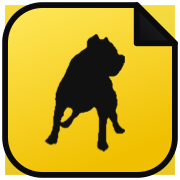
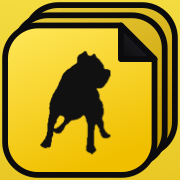
Make the mark a stack: pages behind the page
His ask: "design this in a way so that there is another page behind it,
like a scrollable yellow pages like how it existed in the back end."

Three sheets now, each offset up and to the RIGHT of the one in front.
That direction is the whole point rather than a preference — it is where
the front sheet's corner is turned, so the cut opens onto the page
behind it. Offset any other way and the stack shows its slivers on an
edge the fold does nothing with, and the two devices stay two devices.
This way they are one: the corner is turned back and there is visibly
something under it.

Only the top sheet is dog-eared. Three folded corners read as three
marks rather than one directory.

Everything is proportional to a SHEET rather than to the drawing now, so
the radius, the fold and Biggie's place on the front page all survive
the sheet being smaller than the whole mark. His measured numbers are
unchanged: 22.5% fold, dog 23.4% to 70.7% across and 17.2% to 86.4%
down.

The icon script is rebuilt and moved into tools/. It used to reproduce
the mark from constants it scraped out of the component with a regex,
which worked while those were four literals and broke silently the
moment they became expressions — a regex that matches nothing yields NaN
and still renders something. It now lifts the real mark out of the
running page and photographs it, so there is no second copy of the
geometry left to fall out of step. It also has to navigate to the app's
[…]

diff --git a/src/apps/dialer/PagesMark.tsx b/src/apps/dialer/PagesMark.tsx
@@ -1,115 +1,142 @@
 /**
- * The BEASTY PAGES mark: Biggie on a yellow tile with the corner turned down.
+ * The BEASTY PAGES mark: Biggie on a yellow sheet, with the directory behind him.
  *
- * Drawn rather than shipped as a picture, because the two things the operator
- * asked to have fixed are both geometry, and geometry baked into a PNG has to
- * be redrawn by hand at every size it is ever used at.
+ * Drawn rather than shipped as a picture, because everything the operator has
+ * asked to have changed here has been geometry, and geometry baked into a PNG
+ * has to be redrawn by hand at every size it is ever used at.
  *
- *   "Can you design it where the line around the tile goes completely around
- *    without that missing space. Also the page fold isn't as symmetrical to the
- *    corner if you can look closely and see."
+ *   "the line around the tile goes completely around without that missing space"
+ *   "the page fold isn't as symmetrical to the corner"
+ *   "design this in a way so that there is another page behind it like a
+ *    scrollable yellow pages like how it existed in the back end"
  *
- * Both are answered by construction below rather than by eye — see TILE and
- * FOLD.
+ * All three are answered by construction below rather than by eye. The last one
+ * is what turned this from a tile into a STACK, and it pays for itself: the cut
+ * corner now reveals the sheet behind rather than revealing nothing, so the
+ * fold and the stack stopped being two ideas and became one.
  *
  * Biggie has died; the dog on this screen is a memorial, not a mascot, which is
  * worth knowing before anyone edits that artwork.
  */
 
-/** Corner radius, in the 100x100 square the mark is drawn in. */
-const R = 22
+/**
+ * Three sheets, each SHEET across, each STEP up and to the right of the one in
+ * front of it — so the whole stack still fills the 100x100 the mark is drawn in.
+ *
+ * Up and to the RIGHT specifically, because that is where the front sheet's
+ * corner is turned. A stack offset any other way would show its slivers on an
+ * edge the fold does nothing with, and the two devices would just be two
+ * devices. This way the fold opens onto the page behind it.
+ */
+const SHEETS = 3
+const STEP = 6
+const SHEET = 100 - STEP * (SHEETS - 1)
+
+/** Corner radius, in proportion to a sheet rather than to the whole mark. */
+const R = SHEET * 0.22
 
 /**
  * How far the fold reaches from the corner along BOTH edges, which is the whole
  * of what "symmetrical to the corner" means here.
  *
  * The cut runs from A on the top edge to B on the right edge, each exactly F
- * from the corner, so A and B are mirror images across the corner's own
- * 45-degree diagonal. The fold is then symmetric BY CONSTRUCTION: one number
- * used twice, no eyeballed control point that can drift, and it holds at every
- * size the mark is ever drawn at.
+ * from the corner, so A and B are mirror images across that corner's own
+ * 45-degree diagonal. The fold is symmetric BY CONSTRUCTION — one number used
+ * twice, no eyeballed control point that can drift, true at every size.
  *
- * 22.5 is HIS size, measured off public/icons/beasty-pages-mark.png rather than
- * chosen — and measuring it is what found the thing he was pointing at. His
+ * 22.5% is HIS size, measured off public/icons/beasty-pages-mark.png rather
+ * than chosen, and measuring it is what found the thing he was pointing at: his
  * fold reaches 22.3% along the top edge and 22.7% down the right. Four parts in
- * a thousand, invisible until you look for it, and he looked for it. One number
- * used twice cannot do that.
+ * a thousand, invisible until you look for it, and he looked for it.
  */
-const F = 22.5
+const F = SHEET * 0.225
 
-/** A, where the cut leaves the top edge. */
-const AX = 100 - F
-/** B, where the cut meets the right edge. */
-const BY = F
+/** Where each sheet's top-left corner sits. Index 0 is the front one. */
+const originOf = (i: number) => ({ x: STEP * i, y: STEP * (SHEETS - 1 - i) })
 
-/*
-  ONE path for the whole tile, corner cut included — the fix for the missing
-  space in the outline.
+/**
+ * One sheet as a single closed path, corner cut included.
+ *
+ * ONE path is the fix for the missing space in the outline. The version he was
+ * looking at was a rounded rectangle with a triangle laid over its corner: two
+ * shapes, so the stroke ran round the rectangle and stopped dead where the
+ * triangle began, leaving the fold's own edge bare. Here the diagonal IS a
+ * segment of the outline, so a single stroke travels the entire silhouette and
+ * closes on itself. There is no seam left to leave open.
+ *
+ * `cut` is false for the sheets behind: only the top one is dog-eared. Three
+ * folded corners would read as three separate marks rather than one directory.
+ */
+function sheetPath(i: number, cut: boolean): string {
+  const { x, y } = originOf(i)
+  const r = x + SHEET
+  const b = y + SHEET
+  return [
+    `M ${x + R} ${y}`,
+    cut ? `H ${r - F}` : `H ${r - R}`,
+    cut ? `L ${r} ${y + F}` : `A ${R} ${R} 0 0 1 ${r} ${y + R}`,
+    `V ${b - R}`,
+    `A ${R} ${R} 0 0 1 ${r - R} ${b}`,
+    `H ${x + R}`,
+    `A ${R} ${R} 0 0 1 ${x} ${b - R}`,
+    `V ${y + R}`,
+    `A ${R} ${R} 0 0 1 ${x + R} ${y}`,
+    'Z',
+  ].join(' ')
+}
 
-  The version the operator was looking at was a rounded rectangle with a
-  triangle laid over its corner: two shapes, so the stroke ran round the
-  rectangle and stopped dead where the triangle started, leaving the fold's own
-  edge bare. That is the gap he spotted. Here the diagonal IS a segment of the
-  outline, so one stroke travels the entire silhouette and closes on itself.
-  There is no seam left to leave open.
-*/
-const TILE = [
-  `M ${R} 0`,
-  `H ${AX}`, //                        top edge, stopping at A
-  `L 100 ${BY}`, //                    the cut, A down to B
-  `V ${100 - R}`, //                   right edge
-  `A ${R} ${R} 0 0 1 ${100 - R} 100`,
-  `H ${R}`, //                         bottom edge
-  `A ${R} ${R} 0 0 1 0 ${100 - R}`,
-  `V ${R}`, //                         left edge
-  `A ${R} ${R} 0 0 1 ${R} 0`,
-  'Z',
-].join(' ')
-
-/*
-  The turned-down corner, lying inside the tile along the cut.
-
-  Its third point D is the corner reflected across the cut, which for a cut
-  meeting both edges at F comes out at exactly (100 - F, F). So D sits ON the
-  corner's diagonal with A and B equidistant either side of it, and the flap is
-  its own mirror image — the property he asked for, true for any F.
-*/
-const FOLD = `M ${AX} 0 L 100 ${BY} L ${AX} ${BY} Z`
+/**
+ * The turned-down corner of the front sheet, lying inside it along the cut.
+ *
+ * Its third point is the corner reflected across the cut, which for a cut
+ * meeting both edges at F lands exactly on that corner's diagonal — so the flap
+ * is its own mirror image, for any F.
+ */
+function foldPath(): string {
+  const { x, y } = originOf(0)
+  const r = x + SHEET
+  return `M ${r - F} ${y} L ${r} ${y + F} L ${r - F} ${y + F} Z`
+}
 
 /**
  * Biggie is 355x520, placed to match the operator's own mark rather than to my
- * taste — his file is in public/icons/beasty-pages-mark.png and these numbers
- * are measured off it.
+ * taste — his file is public/icons/beasty-pages-mark.png and these are measured
+ * off it: 23.4% to 70.7% across, 17.2% to 86.4% down. That height at Biggie's
+ * aspect gives 47.1 wide against the 47.3 measured off his art, which is the
+ * confirmation the numbers are read and not guessed.
  *
- * His dog occupies 23.4% to 70.7% across and 17.2% to 86.4% down. That is 69
- * tall, which at Biggie's aspect gives 47.1 wide against the 47.3 measured off
- * his art — the same artwork at the same scale, which is the confirmation the
- * measurement is right rather than a coincidence of two eyeballed numbers.
- *
- * NOT centred: he sits about three units left of it. That is deliberate in his
- * drawing and it works, because the turned corner takes visual weight out of
- * the top right and the dog leans back against it. Centring him by arithmetic
- * made the tile look like it was falling to the right.
+ * Proportions of a SHEET, not of the mark, so he keeps his place on the front
+ * page now that the page is smaller than the whole drawing.
  */
-const DOG_H = 69
+const DOG_H = SHEET * 0.69
 const DOG_W = (DOG_H * 355) / 520
-const DOG_X = 23.4
-const DOG_Y = 17.2
+const DOG_X = originOf(0).x + SHEET * 0.234
+const DOG_Y = originOf(0).y + SHEET * 0.172
 
 export function PagesMark({ className }: { className?: string }) {
+  /* Back to front, so each sheet laps over the one behind it. */
+  const behind = Array.from({ length: SHEETS - 1 }, (_, k) => SHEETS - 1 - k)
+
   return (
     /*
       Padded by 3 on every side so the stroke has somewhere to live. A stroke
       straddles its own path, so in a bare 0 0 100 100 box the outer half of it
-      falls outside the viewport: the four edges render at half the weight of
-      the diagonal, which reads as precisely the kind of unfinished being
-      complained about.
+      falls outside the viewport: the edges render at half the weight of the
+      diagonal, which reads as precisely the kind of unfinished being complained
+      about.
     */
     <svg className={className} viewBox="-3 -3 106 106" role="img" aria-label="BEASTY PAGES">
       <defs>
         <linearGradient id="pm-tile" x1="0" y1="0" x2="0.4" y2="1">
           <stop offset="0" stopColor="#FFE85C" />
           <stop offset="1" stopColor="#F0C000" />
+        </linearGradient>
+        {/* The sheets behind sit in the front one's shadow, and further back is
+            further down. Two stops rather than a flat fill so a deep stack does
+            not read as a flat band of colour. */}
+        <linearGradient id="pm-back" x1="0" y1="0" x2="0.4" y2="1">
+          <stop offset="0" stopColor="#E8CA3A" />
+          <stop offset="1" stopColor="#C79E00" />
         </linearGradient>
         {/* The underside of a turned page catches least light at the tip. */}
         <linearGradient id="pm-fold" x1="1" y1="0" x2="0" y2="1">
@@ -118,11 +145,22 @@ export function PagesMark({ className }: { className?: string }) {
         </linearGradient>
         {/* Keeps the dog off the fold and off the rounded corners. */}
         <clipPath id="pm-clip">
-          <path d={TILE} />
+          <path d={sheetPath(0, true)} />
         </clipPath>
       </defs>
 
-      <path d={TILE} fill="url(#pm-tile)" />
+      {behind.map((i) => (
+        <path
+          key={i}
+          d={sheetPath(i, false)}
+          fill="url(#pm-back)"
+          stroke="#0B0B0D"
+          strokeWidth="3.4"
+          strokeLinejoin="round"
+        />
+      ))}
+
+      <path d={sheetPath(0, true)} fill="url(#pm-tile)" />
 
       <image
         href="/biggie.webp"
@@ -134,29 +172,21 @@ export function PagesMark({ className }: { className?: string }) {
         preserveAspectRatio="xMidYMid meet"
       />
 
-      <path d={FOLD} fill="url(#pm-fold)" />
+      <path d={foldPath()} fill="url(#pm-fold)" />
 
       {/*
-        The outline goes on LAST and unfilled, so it sits over both the tile and
-        the dog and reads as one unbroken line the whole way round — including
-        along the cut, which is the part that was missing.
+        The outline goes on LAST and unfilled, so it sits over the sheet, the
+        dog and the flap and reads as one unbroken line the whole way round —
+        including along the cut, which is the part that was missing.
       */}
       <path
-        d={TILE}
+        d={sheetPath(0, true)}
         fill="none"
         stroke="#0B0B0D"
         strokeWidth="3.4"
         strokeLinejoin="round"
       />
-      {/* The fold's two straight edges, so the turned corner has an edge of its
-          own rather than floating as a dark shape inside the tile. */}
-      <path
-        d={FOLD}
-        fill="none"
-        stroke="#0B0B0D"
-        strokeWidth="3.4"
-        strokeLinejoin="round"
-      />
+      <path d={foldPath()} fill="none" stroke="#0B0B0D" strokeWidth="3.4" strokeLinejoin="round" />
     </svg>
   )
 }
